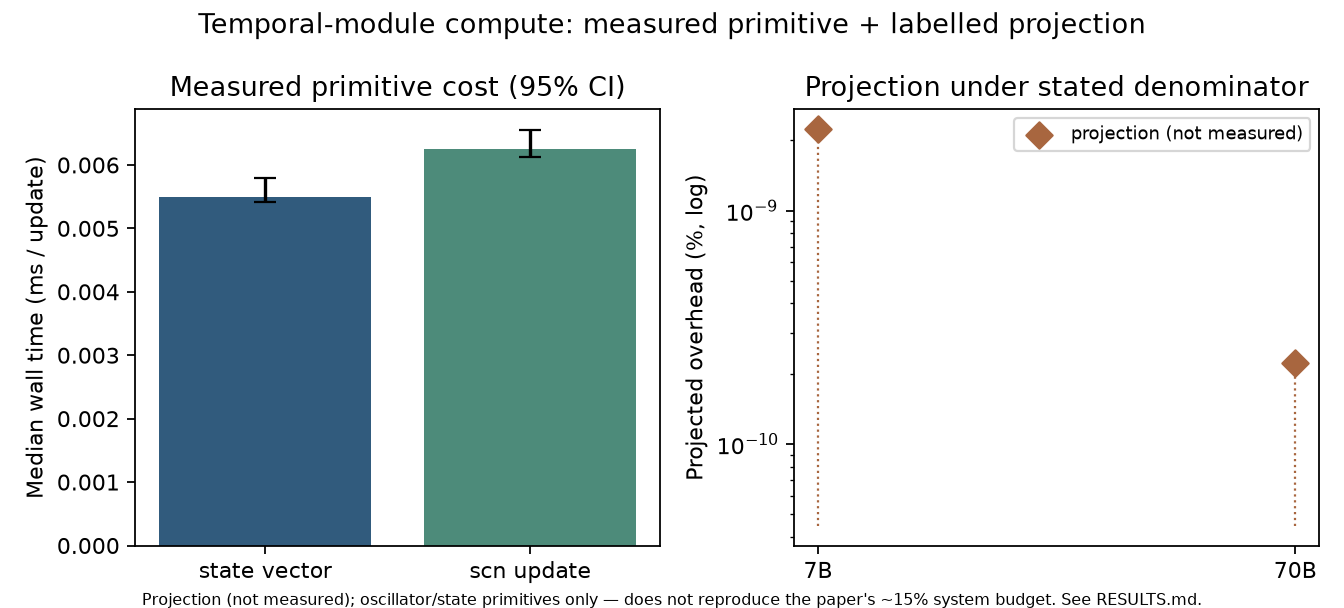
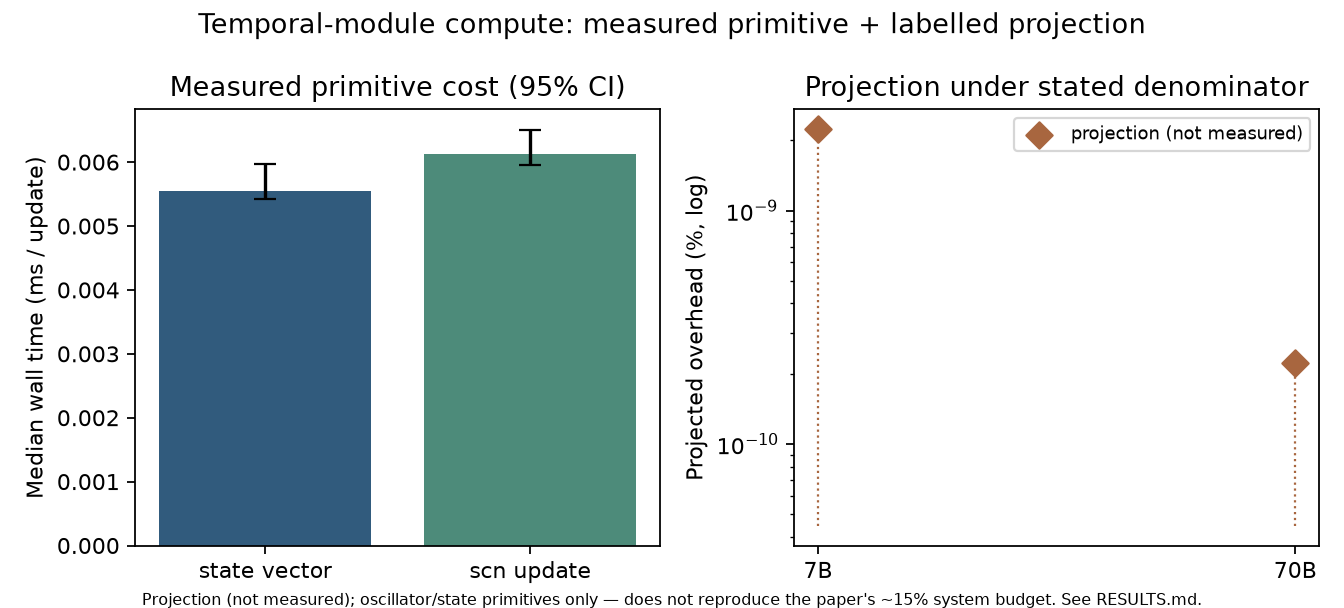
Show raw phase error alongside lock residual in Fig 3 title
The re-entrainment panel title now surfaces the primary raw phase error
(15.8%, i.e. the physical 55.8 deg entrainment angle) next to the locking
tightness (lock residual 3.9%), so the figure cannot be read as meeting a
<5% phase-error target on the favorable metric alone. Regenerated results
(latency wall-times differ run-to-run, as documented).

diff --git a/scripts/plot.py b/scripts/plot.py
@@ -142,8 +142,12 @@ def _figure_dynamics(results: Path, dynamics: dict[str, str], trajectory: list[d
     axes[1].set_xlabel("Simulation time (hours)")
     axes[1].set_ylabel("Unwrapped cycles")
     axes[1].set_title(
-        f"Re-entrainment; lock residual {float(dynamics['post_shift_lock_residual_percent']):.1f}%, "
-        f"re-lock {float(dynamics['reentrainment_time_hours']):.0f} h"
+        "Re-entrainment after 6 h shift\n"
+        f"raw phase error {float(dynamics['post_shift_raw_phase_error_percent']):.1f}% "
+        f"(angle {float(dynamics['entrainment_angle_degrees']):.1f}°) · "
+        f"lock residual {float(dynamics['post_shift_lock_residual_percent']):.1f}% · "
+        f"re-lock {float(dynamics['reentrainment_time_hours']):.0f} h",
+        fontsize=9,
     )
     axes[1].legend(fontsize=8)
     _save(results / "fig3_entrainment.png")

diff --git a/results/RESULTS.md b/results/RESULTS.md
@@ -57,8 +57,8 @@ architecture's `≈15%` / `<200 ms` design *targets*.
 
 | Temporal-module primitive | Median (ms) | 95% interval (ms) |
 | --- | ---: | ---: |
-| state vector | 0.0055 | 0.0054–0.0058 |
-| scn update | 0.0062 | 0.0061–0.0065 |
+| state vector | 0.0055 | 0.0054–0.0060 |
+| scn update | 0.0061 | 0.0060–0.0065 |
 
 Toy-corpus retrieval latency, baseline vs phase-modulated, with the isolated
 added-module reweight cost. The toy retrieval is a NumPy cosine over an in-memory
@@ -67,9 +67,9 @@ retrieval time, which a real RAG index/embedding/batching would dominate.
 
 | Toy corpus size | Baseline (ms) | Phase-modulated (ms) | Added reweight (ms) |
 | --- | ---: | ---: | ---: |
-| 128 | 0.0045 | 0.0085 | 0.0040 |
-| 512 | 0.0088 | 0.0148 | 0.0061 |
-| 2048 | 0.0814 | 0.1014 | 0.0200 |
+| 128 | 0.0048 | 0.0090 | 0.0042 |
+| 512 | 0.0088 | 0.0153 | 0.0065 |
+| 2048 | 0.0726 | 0.1053 | 0.0326 |
 
 ### Figure 1: system-overhead projection (labelled, not measured)
 